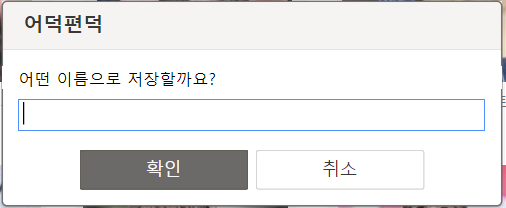
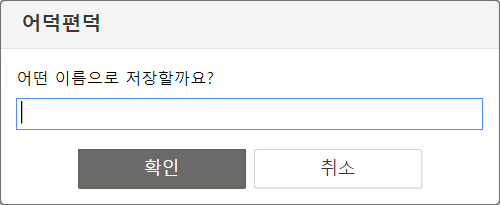
스타일 일부 수정 및 사용 설명서 이미지 수정 완료

diff --git a/sidebar/sidebar.html b/sidebar/sidebar.html
@@ -88,32 +88,36 @@
         <div class="inner_layer">
           <h2>사용방법</h2>
           <ol>
-            <li>웨일 확장앱에서 어덕편덕을 다운로드 받으시면, 사이드바에 아이콘이 나타납니다. <br>
+            <li>웨일 스토어에서 어덕편덕을 다운로드 받으면 사이드바에 덕덕이 아이콘이 나타납니다. <br><br>
             <img src="src/img/intro/1.png"></li>
-            <li>사이드바앱에서는 각종 설정, 가장 최근에 다운로드 받은 이미지의 정보 및 이전 다운로드 기록을 확인할 수 있습니다. (단축키 Alt+A)<br>
-            <img src="src/img/intro/2.png" width="20%"></li>
-
-<li>사이드바앱의 오른쪽 상단에 있는 스위치로 서비스를 키고 끌 수 있습니다. (단축키 Alt+S)</li>
-            <li>웹에서 원하시는 이미지에서 마우스 오른쪽을 클릭하고 '이미지 저장'을 클릭하세요. ('다른 이름으로 저장' 클릭시 정상적으로 경로가 지정되지 않을 수도 있습니다.)</li>
-            <li>덕덕이가 열심히 이미지를 분석합니다.</li>
-<li>덕덕이가 분석한 인물 신뢰도가 60% 이상인 경우 바로 사용자 컴퓨터의 '다운로드-인물이름'폴더로 저장됩니다. (다운로드 기록은 사이드바앱에서 확인할 수 있어요.)</li>
-            <li>분석한 신뢰도가 60%이하인 경우 사용자가 직접 파일 이름을 입력할 수 있습니다.</li>
-
-<li>'인물이 여러명 인식된 경우 알림'이 체크되어 있는 경우, 이미지 저장시 2명 이상 인식 되면 사용자가 직접 파일 이름을 입력할 수 있습니다. (체크 해제된 경우에는 가장 신뢰도가 높은 인물을 기준으로 저장합니다.)</li>
-            <li>기타 문의 사항이나 오류는 FAQ 탭을 참고해주세요.</li>
+            <li>사이드바 영역에서는 각종 설정, 최근에 다운로드 받은 이미지의 정보 및 이전 다운로드 내역을 확인할 수 있습니다. <b>(단축키 Alt+A)</b><br><br>
+            <img src="src/img/intro/2.png" width="90%"></li>
+            <li>사이드바 영역의 왼쪽 상단에 있는 스위치로 서비스를 키고 끌 수 있습니다. <b>(단축키 Alt+S)</b><br><br>
+            <img src="src/img/intro/3.png" width="20%"></li>
+            <li>인물 이미지에서 마우스 오른쪽을 클릭하고 <b>이미지 저장</b>을 클릭하세요. <br><i>(<b>다른 이름으로 저장</b> 클릭시 정상적으로 경로가 지정되지 않을 수도 있습니다.)</i><br><br>
+            <img src="src/img/intro/4.png" width="90%"></li>
+            <li>덕덕이가 열심히 이미지를 분석합니다.<br>
+            <img src="src/img/intro/5.png"></li>
+            <li>팝업으로 분석 결과를 보여줍니다. 덕덕이가 분석한 인물 신뢰도가 60% 이상인 경우 사용자 컴퓨터의 <b>Download-인물이름</b> 경로로 바로 저장됩니다.<br><br>
+            <img src="src/img/intro/6-1.png" width="90%"></li>
+            <li>이미지를 분석한 결과 신뢰도가 60% 이하인 경우 사용자가 직접 파일 이름을 입력할 수 있습니다.<br><br>
+            <img src="src/img/intro/7-1.png" width="90%"><img src="src/img/intro/7-2.png" width="90%"></li>
+            <li><b>인물 여러명 인식시 알림</b>이 켜져 있는 경우, 2명 이상 인식 되면 사용자가 직접 파일 이름을 입력할 수 있습니다. <br><i>(해제된 경우에는 신뢰도가 가장 높은 인물을 기준으로 저장합니다.)</i><br><br>
+            <img src="src/img/intro/8-1.png" width="50%"><img src="src/img/intro/8-2.png" width="90%"></li>
+            <li>기타 문의 사항이나 오류는 FAQ를 참고해주세요.</li>
           </ol>
         </div>
         <div class="inner_layer">
           <h2>FAQ</h2>
           <dl>
             <dt><strong>Q. 인물이 다른 이름으로 저장돼요.</strong></dt>
-            <dd>- 어덕편덕은 네이버 클로버의 유명인 인식 서비스로부터 분석 결과를 받아옵니다. 인물 사진의 분석 결과는 어덕편덕 사이드바앱의 다운로드 로그에서 확인하실 수 있습니다. 분석 결과가 정확하지 않은 경우 Clova Face Recognition API의 개발자 포럼으로 문의주세요. </dd>
+            <dd>어덕편덕은 네이버 클로버의 유명인 인식 서비스로부터 분석 결과를 받아옵니다. 인물 사진의 분석 결과는 이미지 저장시 팝업으로 확인하실 수 있습니다. 분석 결과가 정확하지 않은 경우 Clova Face Recognition API의 개발자 포럼으로 문의주세요. </dd>
             <dt><strong>Q. 사진 저장 경로가 '다운로드-인물 폴더'가 아니에요.</strong></dt>
-            <dd>-  이미지에서 마우스 오른쪽 클릭 후 '다른 이름으로 저장'을 클릭하는 경우 경로가 제대로 지정되지 않습니다. 대신, '이미지 저장'을 클릭해주세요. </dd>
-            <dt><strong>Q. 계속 '인물 사진 처리에 실패했습니다' 경고창이 나타나요.</strong></dt>
-            <dd>- 네트워크 상태가 불안정한 경우 인물 사진 처리가 원할하지 않을 수 있습니다. 네트워크 상태를 확인해주세요. 네트워크 상태가 안정적이지만 해당 경고창이 지속적으로 나타난다면, 개발자 연락처로 문의주세요.</dd>
+            <dd>이미지에서 마우스 오른쪽 클릭 후 '다른 이름으로 저장'을 클릭하는 경우 경로가 제대로 지정되지 않습니다. 대신, '이미지 저장'을 클릭해주세요. </dd>
+            <dt><strong>Q. 계속 '인물 사진 처리에 실패했습니다.' 경고창이 나타나요.</strong></dt>
+            <dd>네트워크 상태가 불안정한 경우 인물 사진 처리가 원할하지 않을 수 있습니다. 네트워크 상태를 확인해주세요. 네트워크 상태가 안정적이지만 해당 경고창이 지속적으로 나타난다면, <a class="email" href="mailto:milk_atelier@naver.com">개발자 이메일</a>로 문의주세요.</dd>
             <dt><strong>Q. 제가 다운로드 받은 사진이 서버에 저장되나요?</strong></dt>
-            <dd>- 인물 인식 처리를 위해 임시 파일로 저장되지만, 일정 시간 이후 자동으로 삭제되며 기록을 남기지 않습니다.</dd>
+            <dd>인물 인식 처리를 위해 임시 파일로 저장되지만, 일정 시간 이후 자동으로 삭제되며 기록을 남기지 않습니다.</dd>
           </dl>
         </div>
       </div>
@@ -122,7 +126,7 @@
   <!-- //CONTAINER -->
   <!-- FOOTER -->
   <div class="footer">
-    <div class="inner"><strong>Copyright © 어덕편덕 Corp. All Rights Reserved.</strong></div>
+    <div class="inner"><small>email : milk_atelier@naver.com<br>Copyright © 어덕편덕 All Rights Reserved.</small></div>
   </div>
   <!-- //FOOTER -->
   <script src="../jquery-3.3.1.min.js"></script>

diff --git a/sidebar/src/css/sidebar.css b/sidebar/src/css/sidebar.css
@@ -177,8 +177,9 @@ input:checked + .slider2:before {
   font-size: 16px;
   background-color: #0b0c46;
   color: #fff;
-  width: 200px;
+  width: 180px;
   border-radius: 2em;
+  padding: 3px 0 3px 0;
   margin-left: 20px;
   text-align: center;
 }
@@ -199,14 +200,22 @@ input:checked + .slider2:before {
   border: 1px solid #EAEAEA;
   border-radius: 3px;
   box-shadow: 2px 2px 2px rgba(0, 0, 0, 0.15);
+
 }
 .img_info p {
   margin-left: 10px;
   text-align: left;
 }
 li {
+  margin-left: 0;
   text-align: left;
   padding-bottom: 10px;
+  padding-right: 20px;
+}
+ol li {
+  margin-left: 0;
+  list-style-position: outside;
+  margin-bottom: 20px;
 }
 ul li {
   list-style: none;
@@ -257,9 +266,15 @@ dl {
   padding: 0 15px;
   font-size: 15px;
 }
+dt {
+  margin-bottom: 10px;
+}
 dd {
-  margin-left: -1px;
+  margin-left: 10px;
   padding-bottom: 10px;
+  list-style-position: outside;
+  list-style: disc;
+  margin-bottom:15px;
 }
 .footer {
   line-height: 20px;
@@ -279,4 +294,10 @@ dd {
 	height: 1px;
 	font-size: 0;
 	line-height: 0;
+}
+
+.email {
+  text-decoration: none;
+  color:#3bd3d0;
+  font-weight: bold;
 }
